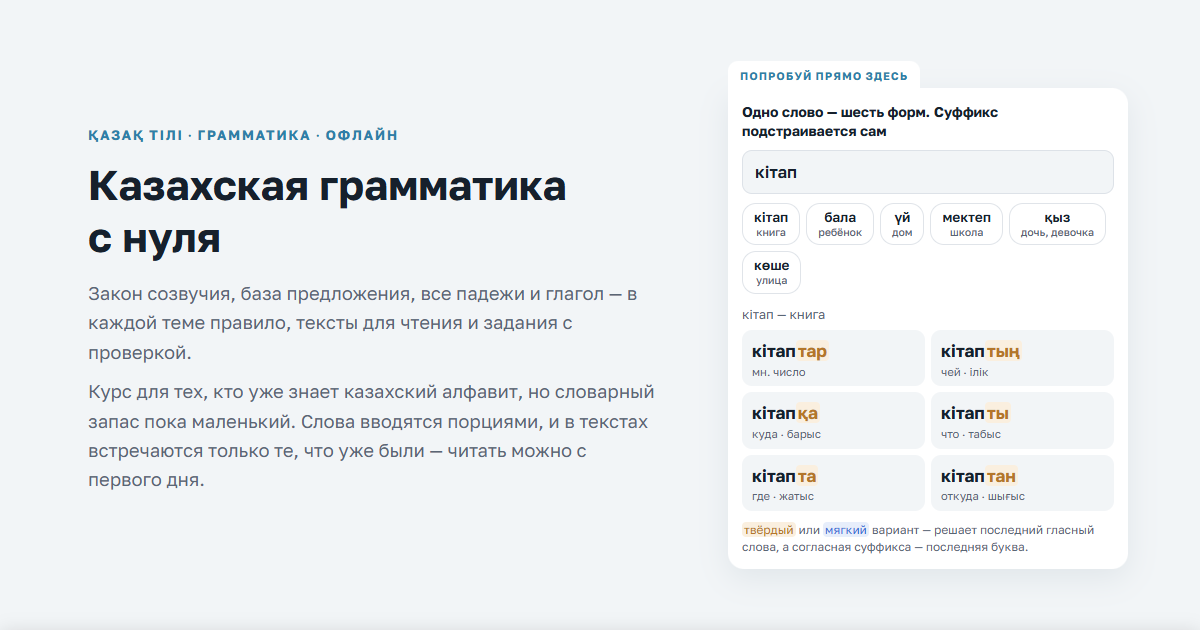
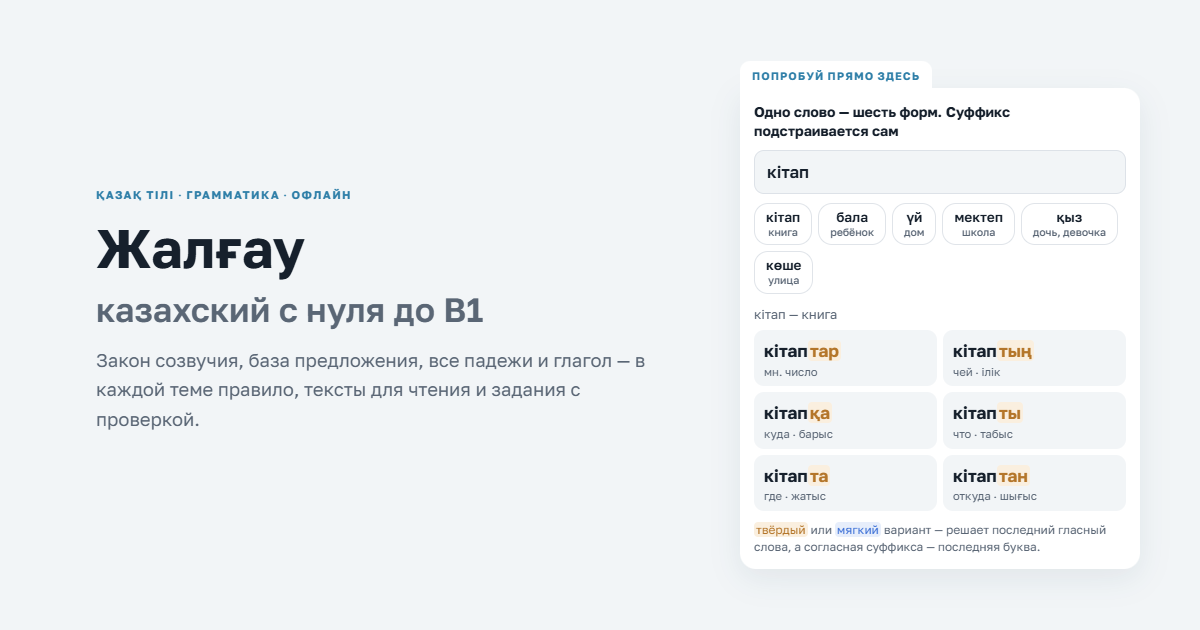
Название: Жалғау — казахский с нуля до B1
Заголовок, og-теги, manifest (short_name «Жалғау»), шапка главной,
README; og:image переснята. Qazaqsha не взято — так уже называется
приложение в App Store.

diff --git a/index.html b/index.html
@@ -3,17 +3,18 @@
 <head>
 <meta charset="UTF-8">
 <meta name="viewport" content="width=device-width, initial-scale=1.0">
-<title>Казахская грамматика с нуля · правила, тексты, задания</title>
+<title>Жалғау — казахский с нуля до B1</title>
 <meta name="author" content="Stanislav Sidorovich">
 <meta name="description" content="Курс казахской грамматики для начинающих: закон созвучия, падежи, глагол. В каждой теме правило, тексты для чтения и задания с проверкой. Офлайн, без рекламы, без регистрации.">
-<meta property="og:title" content="Казахская грамматика с нуля · правила, тексты, задания">
+<meta property="og:title" content="Жалғау — казахский с нуля до B1">
+<meta property="og:site_name" content="Жалғау">
 <meta property="og:description" content="Закон созвучия, падежи и глагол — в каждой теме правило, тексты для чтения и задания с проверкой. Работает офлайн.">
 <meta property="og:type" content="website">
 <meta property="og:url" content="https://qazaqsha-app.github.io/">
 <meta property="og:image" content="https://qazaqsha-app.github.io/assets/og-image.png">
 <meta property="og:image:width" content="1200">
 <meta property="og:image:height" content="630">
-<meta property="og:image:alt" content="Казахская грамматика с нуля: слово кітап в шести формах, суффикс подобран по закону созвучия">
+<meta property="og:image:alt" content="Жалғау — казахский с нуля до B1: слово кітап в шести формах, суффикс подобран по закону созвучия">
 <meta name="twitter:card" content="summary_large_image">
 <link rel="manifest" href="manifest.json">
 <meta name="theme-color" content="#12324A">
@@ -22,7 +23,8 @@
 <link rel="apple-touch-icon" href="assets/icons/apple-touch-icon.png">
 <meta name="apple-mobile-web-app-capable" content="yes">
 <meta name="apple-mobile-web-app-status-bar-style" content="black-translucent">
-<meta name="apple-mobile-web-app-title" content="Казахский язык">
+<meta name="apple-mobile-web-app-title" content="Жалғау">
+<meta name="application-name" content="Жалғау">
 <style>
   /* ---------- ШРИФТЫ ----------
      Локальные woff2, без обращения к CDN — работает офлайн.
@@ -148,6 +150,7 @@
     text-transform:uppercase; color:var(--negiz);
   }
   .hero h1{font-size:1.6rem; line-height:1.25; margin:8px 0 10px; font-weight:700;}
+  .hero h1 .h1-sub{display:block; font-size:0.62em; font-weight:600; color:var(--muted);}
   .hero p{margin:0 0 10px; color:var(--muted); font-size:0.95rem;}
   .hero-note{font-size:0.85rem !important;}
   .about-link{
@@ -826,7 +829,7 @@
     </div>
   </div>
   <div class="eyebrow">Қазақ тілі · грамматика · офлайн</div>
-  <h1>Казахская грамматика с&nbsp;нуля</h1>
+  <h1>Жалғау <span class="h1-sub">казахский с&nbsp;нуля до&nbsp;B1</span></h1>
   <p>Закон созвучия, база предложения, все падежи и глагол — в каждой теме правило, тексты для чтения и задания с проверкой.</p>
   <p class="hero-note">Курс для тех, кто уже знает казахский алфавит, но словарный запас пока маленький. Слова вводятся порциями, и в текстах встречаются только те, что уже были — читать можно с первого дня.</p>
   <p class="hero-note" id="totalTimeNote"></p>

diff --git a/ROADMAP.md b/ROADMAP.md
@@ -12,7 +12,7 @@
 **Адрес выбран 2026-10-13:** `https://qazaqsha-app.github.io/` — репозиторий
 перенесён в организацию `qazaqsha-app` и назван `qazaqsha-app.github.io`.
 Старый адрес отдаёт заглушку `tools/redirect-stub/`, которая переносит
-прогресс (`#import=`). До поста осталось название.
+прогресс (`#import=`). Название — см. ниже.
 
 **Разделы приложения.** Курс перестаёт быть только грамматикой, поэтому
 главная делится на четыре раздела вместо одного списка тем:
@@ -28,21 +28,11 @@
 
 На телефоне эти четыре раздела становятся нижней панелью (пункт 3 ниже).
 
-**Адрес — решить до поста.** Прогресс хранится в браузере отдельно для
-каждого адреса (origin). Адрес из поста станет тем местом, где у людей
-будет их прогресс; сменить его потом — значит обнулить им прогресс.
-Варианты по убыванию:
-
-- свой домен (около 10 $ в год) → Cloudflare, где воркер уже есть;
-- **GitHub-организация вместо второго аккаунта**, если не хочется имени
-  в адресе (`stanislavsidorovich.github.io`). Организация бесплатна,
-  создаётся из того же аккаунта без нового входа; репозиторий переносится
-  в неё (Settings → Transfer), адрес становится `<организация>.github.io/…`.
-  Старый адрес Pages после переноса не перенаправляет — делать до поста;
-- без домена — оставить GitHub Pages как есть.
-
-Название приложения — тоже до поста (в карточку ссылки, `manifest.json`,
-заголовок, og:image).
+**Название выбрано 2026-10-14:** «Жалғау — казахский с нуля до B1».
+`Qazaqsha` как имя не взято: в App Store уже есть приложение Qazaqsha
+для изучения казахского. Адрес остаётся `qazaqsha-app.github.io`.
+Название стоит в `<title>`, og-тегах, `manifest.json` (`short_name` —
+«Жалғау»), шапке главной, README; og:image переснята.
 
 ## Сделано · 2026-10-13, перед постом
 
@@ -105,9 +95,11 @@
 («теперь курс говорит»), это второй повод вернуться. Что нужно до поста:
 
 - ✅ «Сөйлесу» — экран живых фраз. ✅ Шпаргалка окончаний.
-- **Название и адрес** — за пользователем (см. начало файла).
-- Ссылка в посте одна — GitHub Pages: на неё настроена карточка ссылки,
-  а прогресс у двух адресов (Pages и Cloudflare) раздельный.
+- ✅ Название и адрес (см. начало файла).
+- Ссылка в посте одна — `https://qazaqsha-app.github.io/`: на неё настроена
+  карточка ссылки, а прогресс у Pages и Cloudflare раздельный.
+- Вступление на главной говорит «для тех, кто уже знает алфавит», а
+  название — «с нуля». Расхождение закроет экран «Әліппе» (пункт 3).
 - Носитель проверяет форму `барғанмыз / барғанбыз` из темы 2.5 (и, если
   получится, прослушивает образец озвучки).
 

diff --git a/README.md b/README.md
@@ -1,4 +1,6 @@
-# Казахская грамматика с нуля
+# Жалғау — казахский с нуля до B1
+
+Адрес: https://qazaqsha-app.github.io/
 
 Офлайн-курс казахской грамматики для самостоятельного изучения. Один HTML-файл, без сервера, без регистрации, без рекламы. Работает как PWA — можно установить на экран телефона и заниматься без интернета.
 
